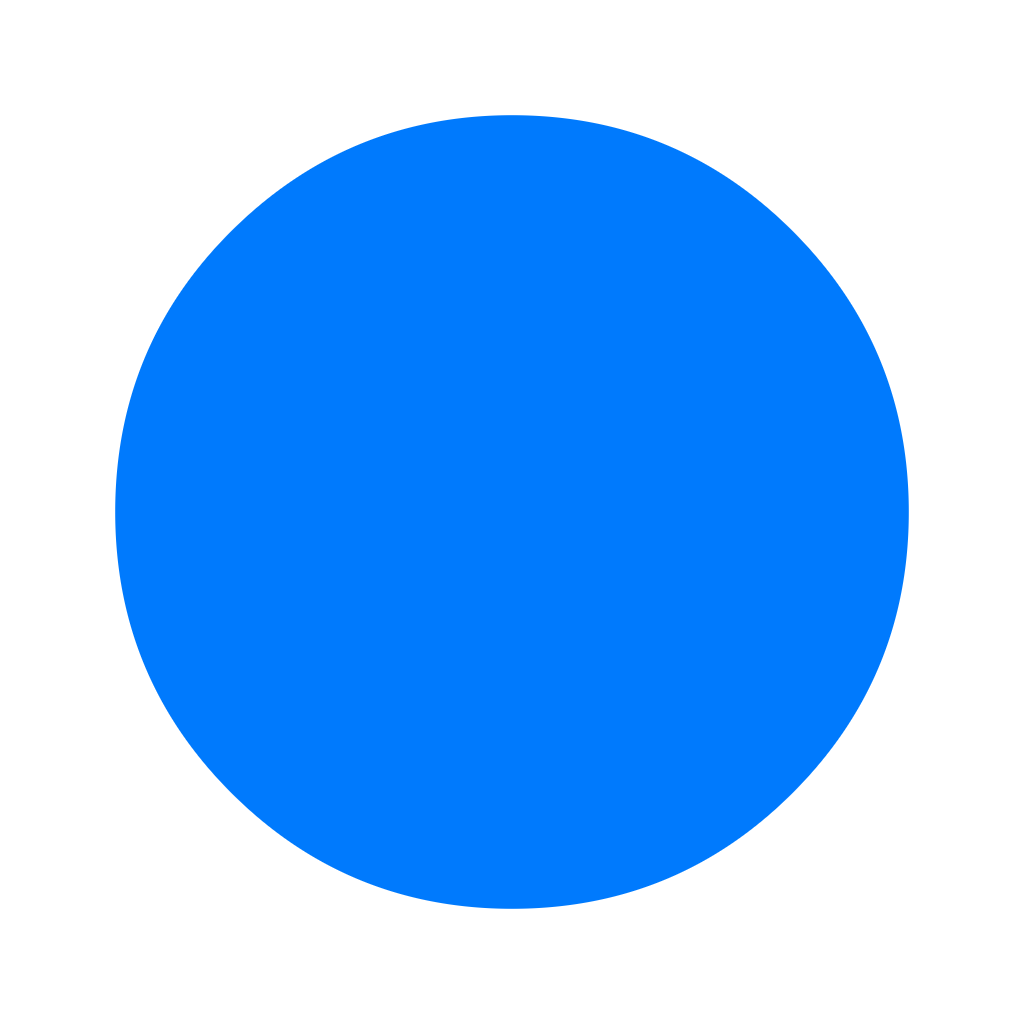
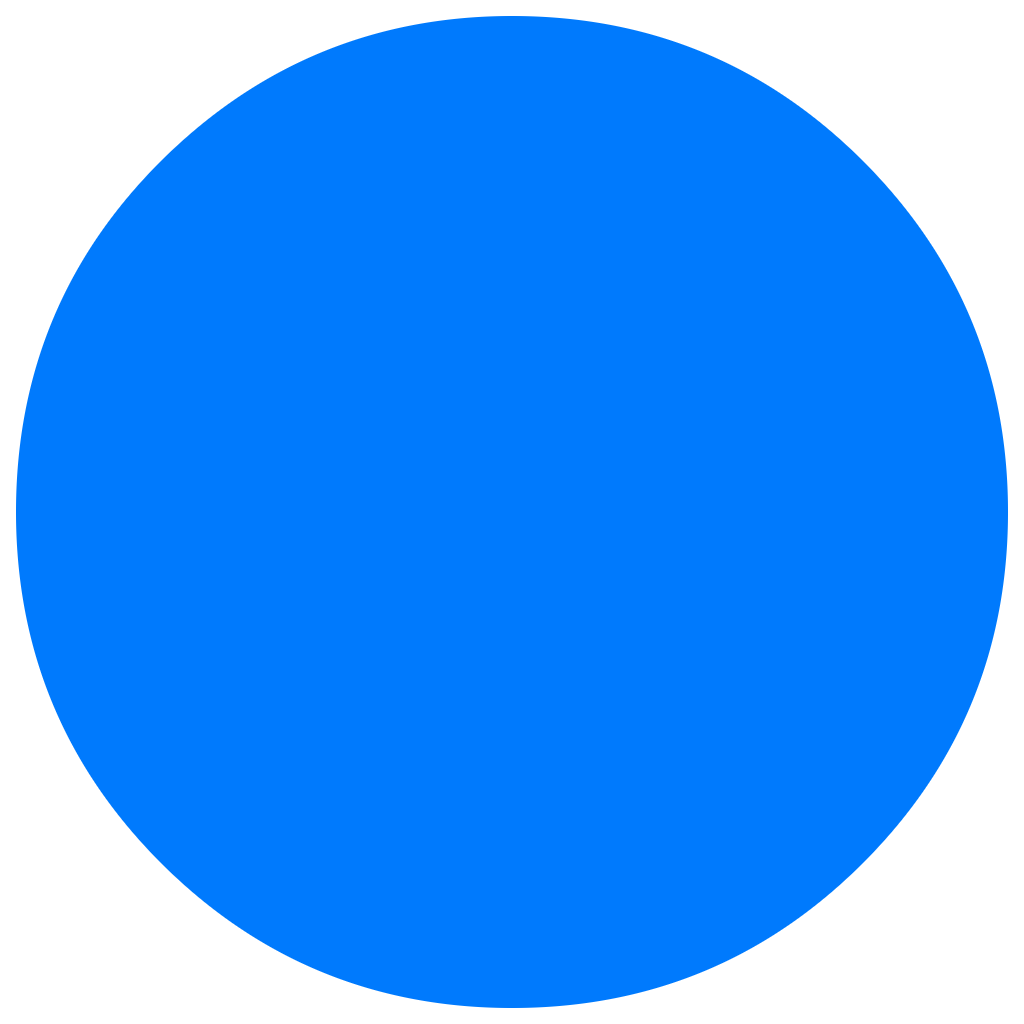
Alignment fixes

Changed region(s): [[0.0, 0.0, 1.0, 1.0]]

diff --git a/application/views/global.css b/application/views/global.css
@@ -3209,7 +3209,7 @@ font-weight: bold !important;
 .icon-block-xs img,
 .platform-large img,
 .image-mini img {
-    border-radius: 50%;
+    border-radius: 0;
 }
 
 .cover-link.coinType12274{
